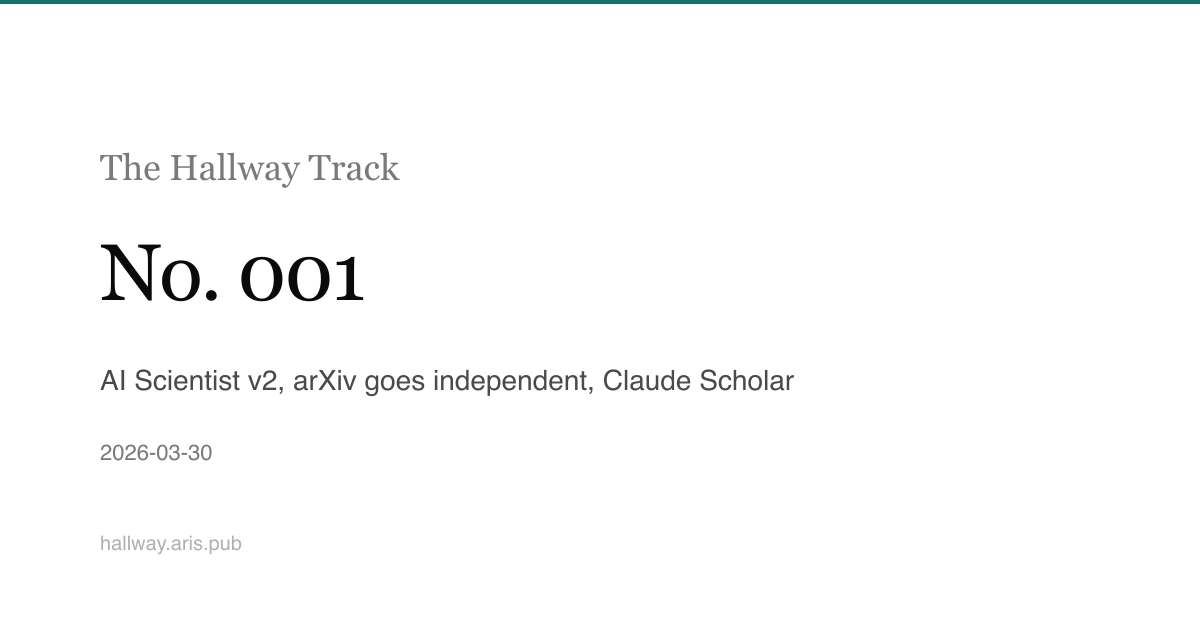
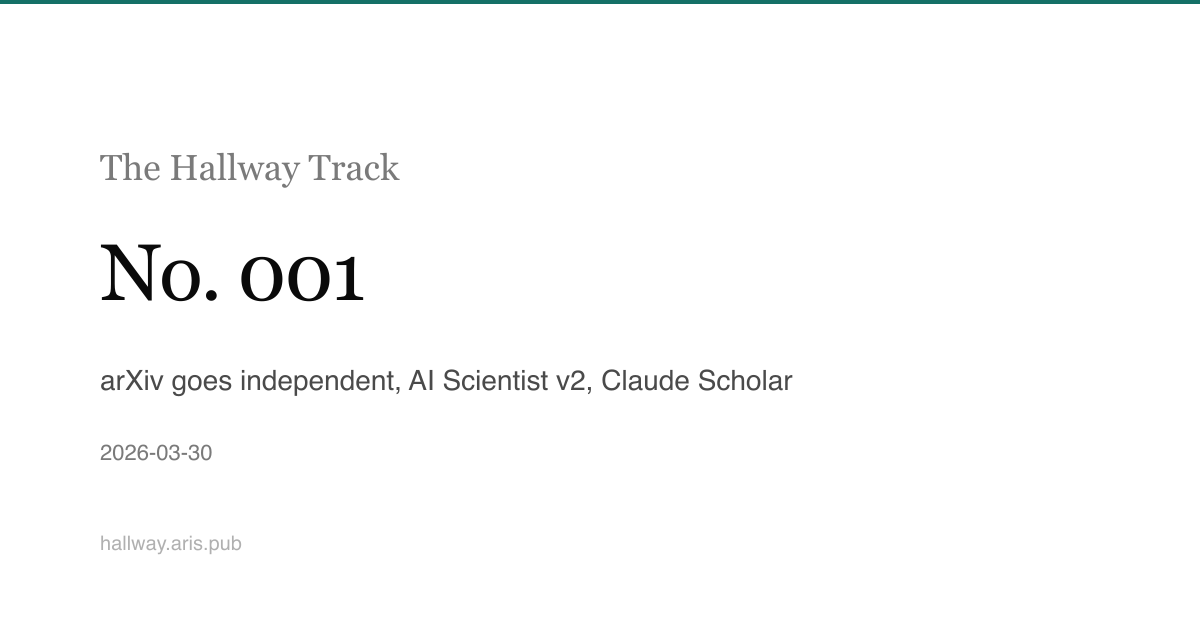
Reorder 001: lead with arXiv independence

Changed region(s): [[0.0925, 0.573, 0.6783, 0.6333]]

diff --git a/src/no/001.md b/src/no/001.md
@@ -1,10 +1,24 @@
 ---
 number: 1
 date: 2026-03-30
-title: "AI Scientist v2, arXiv goes independent, Claude Scholar"
+title: "arXiv goes independent, AI Scientist v2, Claude Scholar"
 pageTitle: "No. 001"
 description: "The Hallway Track No. 001 - How AI is affecting the practice of science"
 ---
+
+## Infrastructure
+
+- [arXiv declares independence from Cornell after 35 years](https://www.science.org/content/article/arxiv-pioneering-preprint-server-declares-independence-cornell)
+
+  *Science, March 2026*
+
+  arXiv is becoming an independent nonprofit on July 1, 2026, with Simons Foundation backing, a $6M budget, and 27 staff. The CEO hire will signal the direction: a tech-forward leader means arXiv might finally move beyond PDF, while a governance-focused one means stability but slow evolution. Researchers worried about an OpenAI-style drift should note that arXiv's incentive structure is fundamentally different, but worth watching.
+
+- [Introducing the Elicit API](https://elicit.com/blog/elicit-api)
+
+  *Elicit, March 2026*
+
+  Elicit opened programmatic access to its 138M-paper index. Researchers can now run literature searches and generate reports from their own scripts, not just the web UI.
 
 ## AI Scientists and the Governance Gap
 
@@ -27,20 +41,6 @@ description: "The Hallway Track No. 001 - How AI is affecting the practice of sc
   *Google Research, March 2026*
 
   Google tested Gemini as a pre-submission proof checker for STOC. 97% of participating researchers found it helpful; one said it caught a bug that invalidated an entire proof.
-
-## Infrastructure
-
-- [arXiv declares independence from Cornell after 35 years](https://www.science.org/content/article/arxiv-pioneering-preprint-server-declares-independence-cornell)
-
-  *Science, March 2026*
-
-  arXiv is becoming an independent nonprofit on July 1, 2026, with Simons Foundation backing, a $6M budget, and 27 staff. The CEO hire will signal the direction: a tech-forward leader means arXiv might finally move beyond PDF, while a governance-focused one means stability but slow evolution. Researchers worried about an OpenAI-style drift should note that arXiv's incentive structure is fundamentally different, but worth watching.
-
-- [Introducing the Elicit API](https://elicit.com/blog/elicit-api)
-
-  *Elicit, March 2026*
-
-  Elicit opened programmatic access to its 138M-paper index. Researchers can now run literature searches and generate reports from their own scripts, not just the web UI.
 
 ## Integrity and the Scientific Record
 
